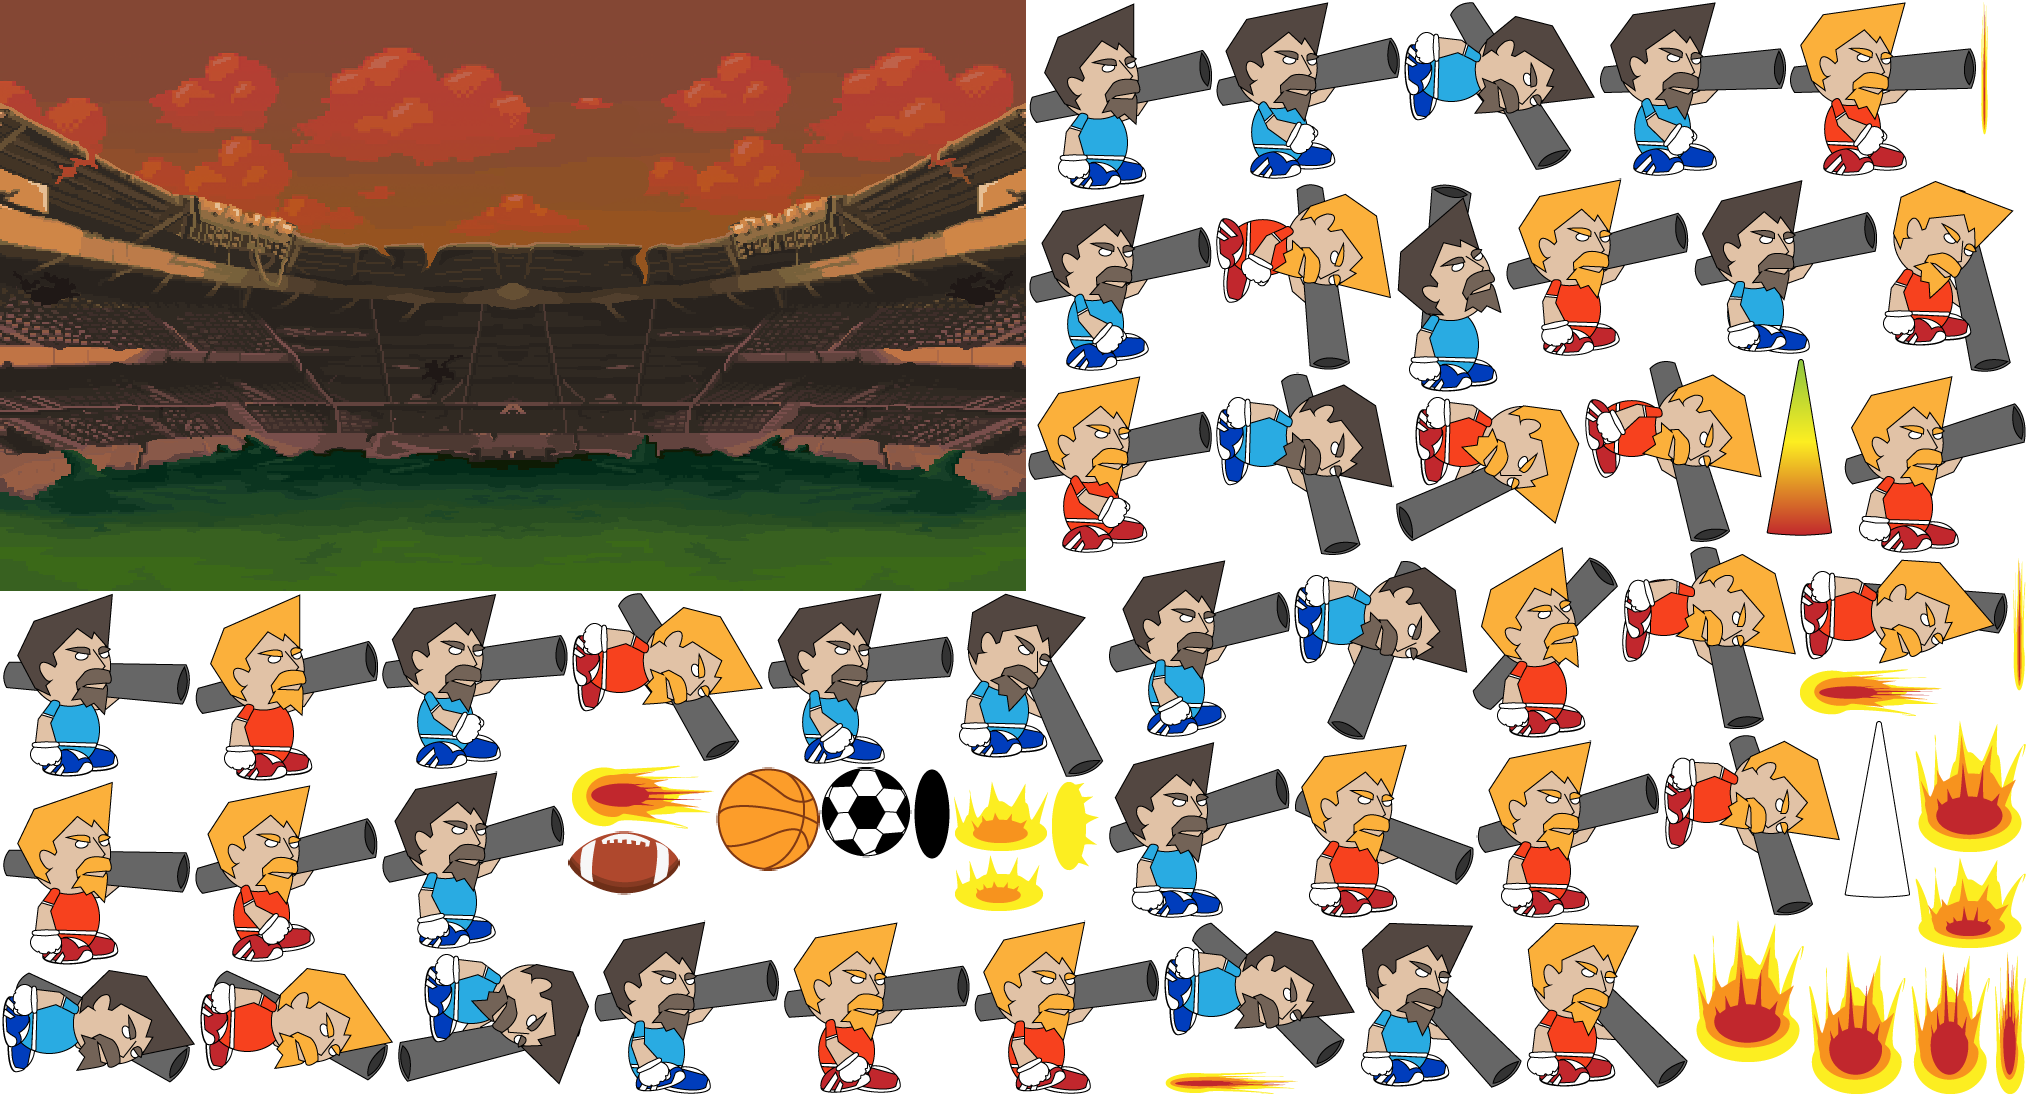
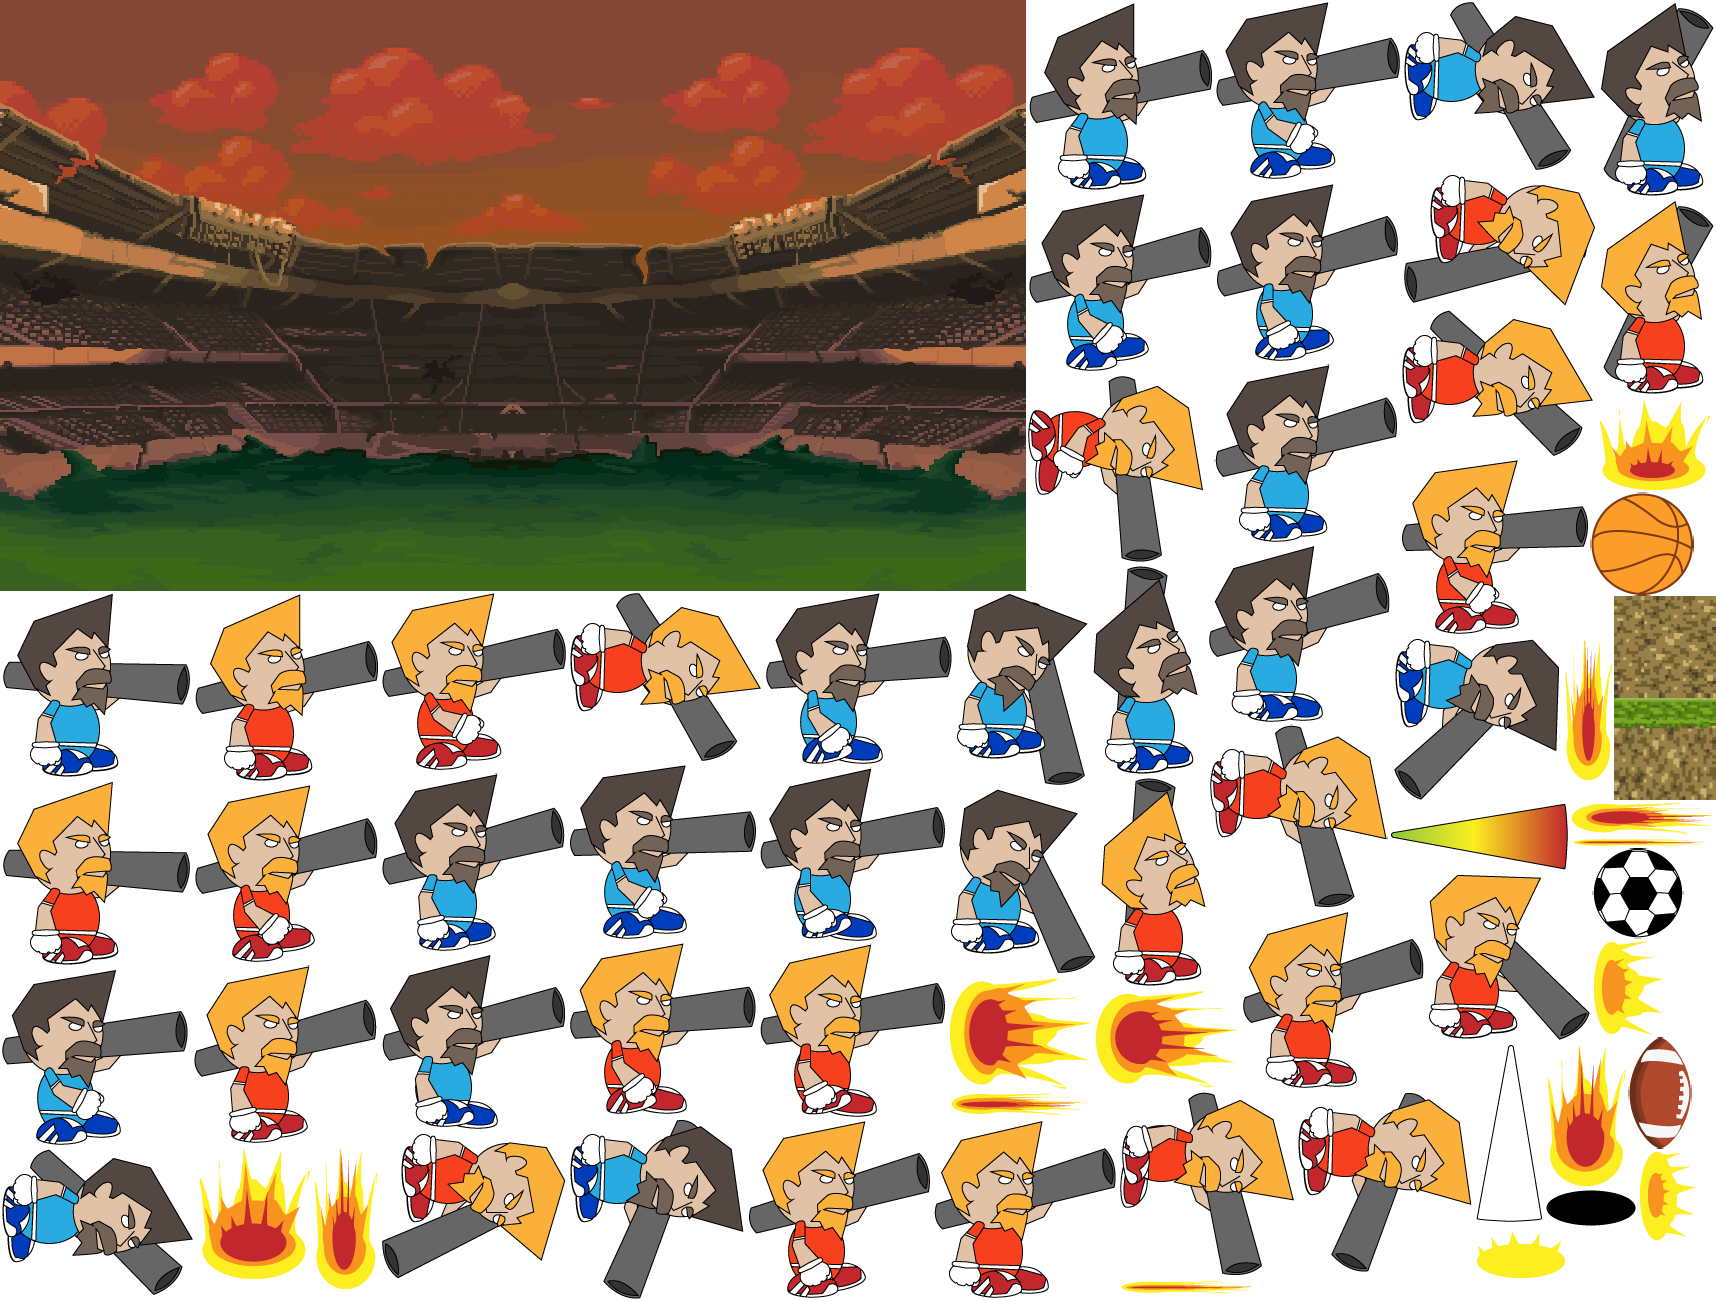
Alle Bilder über SpriteSheets eingebunden Fixes an den Textures Update SpriteSheet: Textures(+)

diff --git a/Classes/ProjectileFactory.cpp b/Classes/ProjectileFactory.cpp
@@ -2,9 +2,7 @@
 
 using namespace cocos2d;
 
-ProjectileFactory::ProjectileFactory() {
-
-}
+ProjectileFactory::ProjectileFactory() {}
 
 
 Texture2D* ProjectileFactory::loadTexture(const char* path) {
@@ -21,10 +19,9 @@ Projectile * ProjectileFactory::createProjectile(MunitionType mt)
 	int dmg = 0;
 	switch (mt) {
 	case NADE:{
-		Texture2D* tex = loadTexture("res/sprites_game/fussball.png");
-		Sprite* sn = Sprite::createWithTexture(tex);
-		sn->setScale(0.4f);
-		PhysicsBody* pn =PhysicsBody::createCircle(
+		Sprite* sn = Sprite::createWithSpriteFrameName("fussball.png");
+		sn->setScale(0.3f);
+		PhysicsBody* pn = PhysicsBody::createCircle(
 			sn->getContentSize().width/2.0f,
 			PhysicsMaterial(0.5f, 0.1f, 10.0f)
 		);
@@ -36,7 +33,7 @@ Projectile * ProjectileFactory::createProjectile(MunitionType mt)
 		break;
 	case ROCKET:{		
 
-		Sprite* sr = Sprite::createWithTexture(loadTexture("res/sprites_game/football.png"));
+		Sprite* sr = Sprite::createWithSpriteFrameName("football.png");
 		sr->setScale(0.3f);
 		float width = sr->getContentSize().width;
 		float height = sr->getContentSize().height;
@@ -51,7 +48,7 @@ Projectile * ProjectileFactory::createProjectile(MunitionType mt)
 	}
 		break;
 	case BULLET:{
-		Sprite* sb = Sprite::createWithTexture(loadTexture("res/sprites_game/fussball.png"));
+		Sprite* sb = Sprite::createWithSpriteFrameName("fussball.png");
 		sb->setScale(0.05f);
 		PhysicsBody* pr = PhysicsBody::createCircle(
 			sb->getContentSize().width/2.0f,
@@ -66,9 +63,3 @@ Projectile * ProjectileFactory::createProjectile(MunitionType mt)
 	}
 	return nullptr;
 }
-
-
-ProjectileFactory::~ProjectileFactory()
-{
-}
-

diff --git a/Classes/PawnEntity.cpp b/Classes/PawnEntity.cpp
@@ -27,21 +27,19 @@ void PawnEntity::initAnimations()
 	const char* path = "";
 	int count = 12;
 	switch (color) {
-	case blue: {
-		path = "walking_blue/%02d.png";
-		break;
-	}
-	case red: {
-		path = "walking_red/%02d.png";
-		break;
-	}
+		case blue: {
+			path = "walking_blue/%02d.png";
+			break;
+		}
+		case red: {
+			path = "walking_red/%02d.png";
+			break;
+		}
 	}
 	auto frames = getAnimation(path, count);
 	sprite = Sprite::createWithSpriteFrame(frames.front());
 	auto animation = Animation::createWithSpriteFrames(frames, 1.0f / count);
 	running_animation = RepeatForever::create(Animate::create(animation));
-
-
 }
 
 Vector<SpriteFrame*> PawnEntity::getAnimation(const char *format, int count)

diff --git a/Classes/Ground.cpp b/Classes/Ground.cpp
@@ -26,11 +26,11 @@ Vector<Sprite*> Ground::createGround(GameLayer* layer)
 		for (int j = 0; j < height; j++){
 
 			if (j == height - 1){ //top block of the column
-				newBlock = Sprite::create(GRASS_FILE);
+				newBlock = Sprite::createWithSpriteFrameName("textures/boden_mit_gras.png");
 				newBlock->setScale(float(BLOCK_X / GRASS_SIZE));
 			}
 			else{
-				newBlock = Sprite::create(DIRT_FILE);
+				newBlock = Sprite::createWithSpriteFrameName("textures/boden.png");
 				newBlock->setScale(float(BLOCK_X / DIRT_SIZE));
 			}
 			newBlock->setPosition(BLOCK_X / 2 + BLOCK_X*i, BLOCK_Y / 2 + BLOCK_Y*j);

diff --git a/Classes/Ground.h b/Classes/Ground.h
@@ -27,13 +27,10 @@
 #define BLOCK_X double(WINDOW_W)*BLOCK_PERCENT/100.0  
 
 //vertical size of blocks
-#define BLOCK_Y BLOCK_X                     
-
-#define DIRT_FILE   "res/textures/boden.png"
-#define GRASS_FILE  "res/textures/oberflaeche_gras.png"
+#define BLOCK_Y BLOCK_X
 
 //square sizes of the .png files
-#define DIRT_SIZE   417.0                       
+#define DIRT_SIZE	100.0                       
 #define GRASS_SIZE  100.0
 
 using namespace cocos2d;

diff --git a/Classes/ProjectileFactory.h b/Classes/ProjectileFactory.h
@@ -13,16 +13,12 @@ class ProjectileFactory
 
 public:
 	enum MunitionType { ROCKET, NADE, BULLET };
-
 	ProjectileFactory();
-
-	virtual ~ProjectileFactory();
 	Projectile* createProjectile(MunitionType mt);
 private:
 	Texture2D* loadTexture(const char* path);
 	bool initalized = false;
 	std::vector<PhysicsBody*> bodymap;
 	std::vector<Texture2D*> textmap;
-
 };
 
